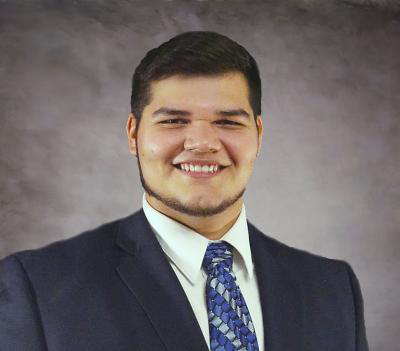
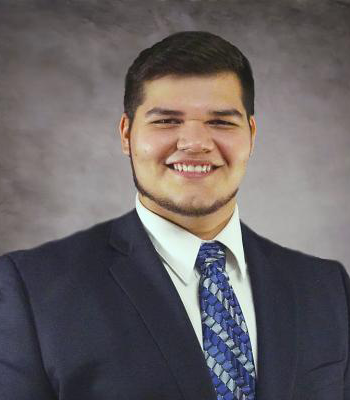
updates

diff --git a/src/App.js b/src/App.js
@@ -47,12 +47,6 @@ class App extends Component {
 
           <TintedOverlay />
 
-          <HeroContent>
-            {/* <HeroDescription>My Process Makes It Simple</HeroDescription> */}
-            {/* <HeroButton>Buyers Process</HeroButton>
-            <HeroButton>Sellers Process</HeroButton> */}
-          </HeroContent>
-
           <MLAFormWrapper>
             <HeroTitle>YOUR NEXT HOME VENTURE STARTS HERE</HeroTitle>
             <_MLASearchForm SearchForm />  
@@ -61,8 +55,6 @@ class App extends Component {
           <Arrows color={ this.state.color } />
           
         </Header>
-
-        {/* <Locations color={ this.state.color } /> */}
 
         <div style={{ paddingTop: 34, paddingBottom: 34 }}>
           <Icons3 color={ this.state.color } />
@@ -154,7 +146,7 @@ const HeroContent = styled.div`
 const TintedOverlay = styled.div`
   height: 100vh;
   width: 100vw;
-  background: rgba(0,0,0,.6);
+  background: rgba(0,0,0,.3);
   position: absolute;
   left: 0;
   top: 0;

diff --git a/src/components/About5/index.js b/src/components/About5/index.js
@@ -6,7 +6,7 @@ export default class About5 extends React.Component {
         return (
             <About5View>
                 <Border>
-                    <Image src="/assets/images/lil_jacky_small.png" />
+                    <Image src="/assets/images/lil_jacky_half.png" />
                 </Border>
                 <Content>
                     <Title>Hello, I'm Jacob West</Title>
